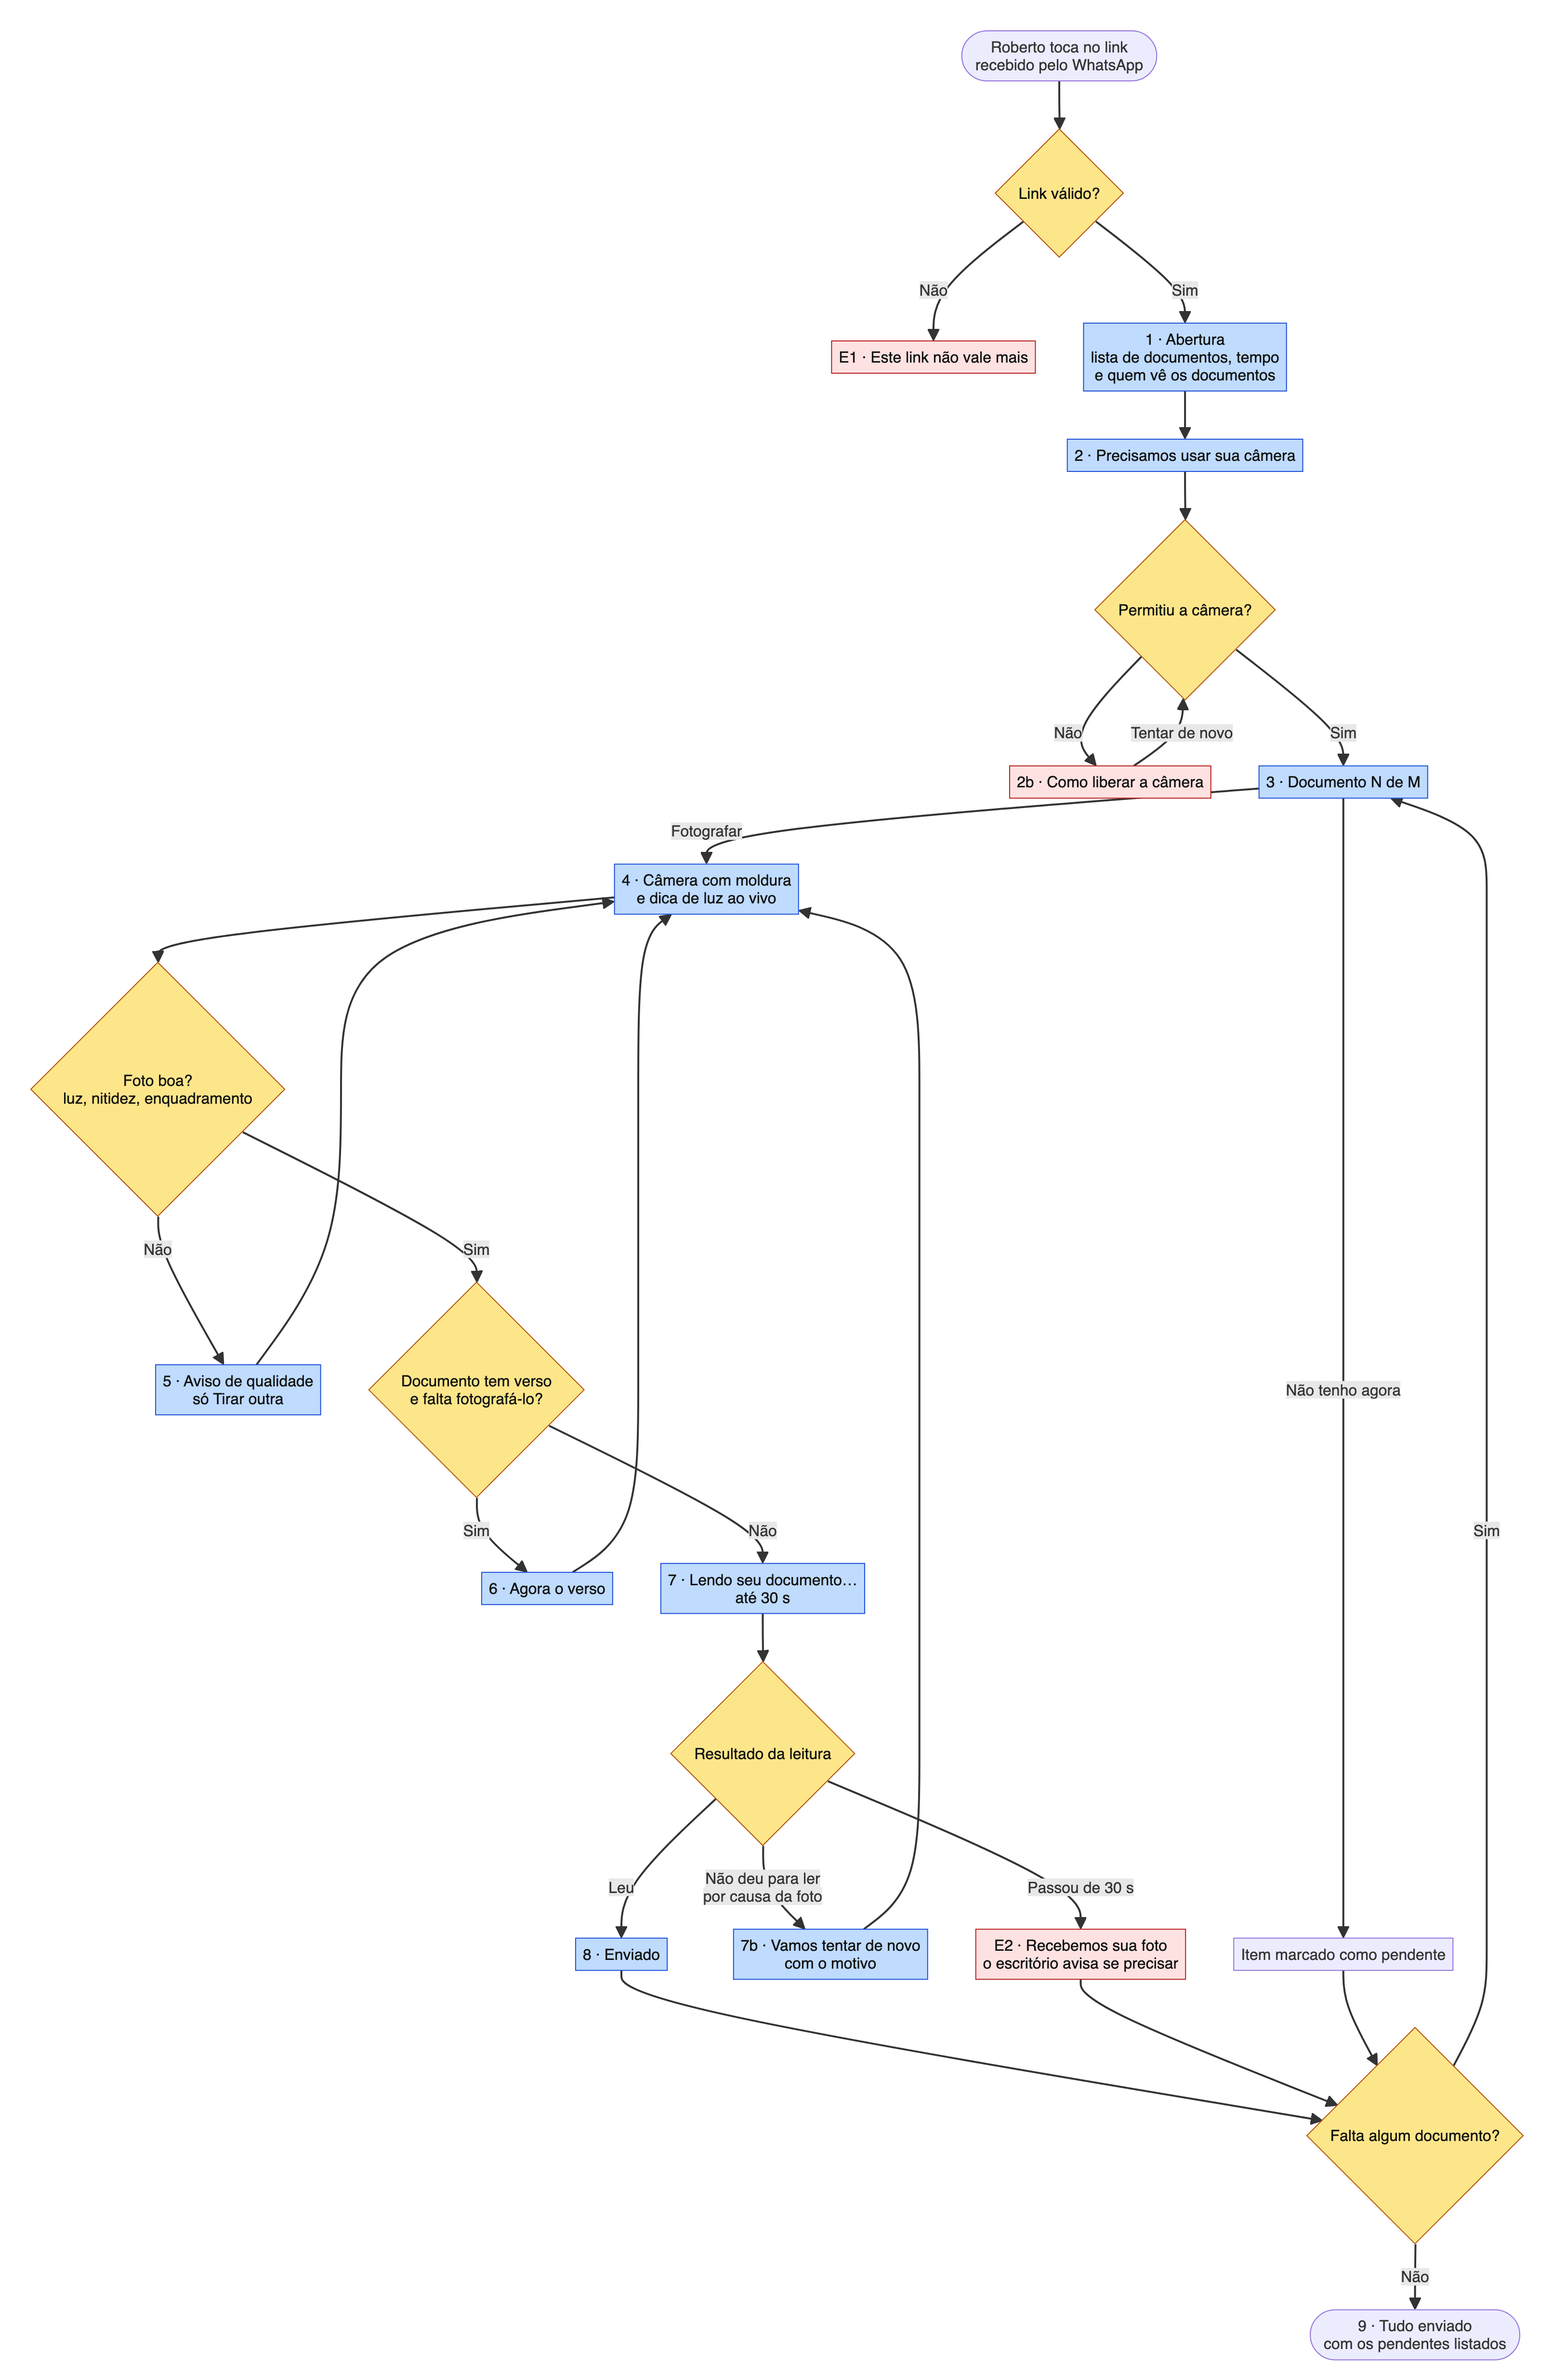
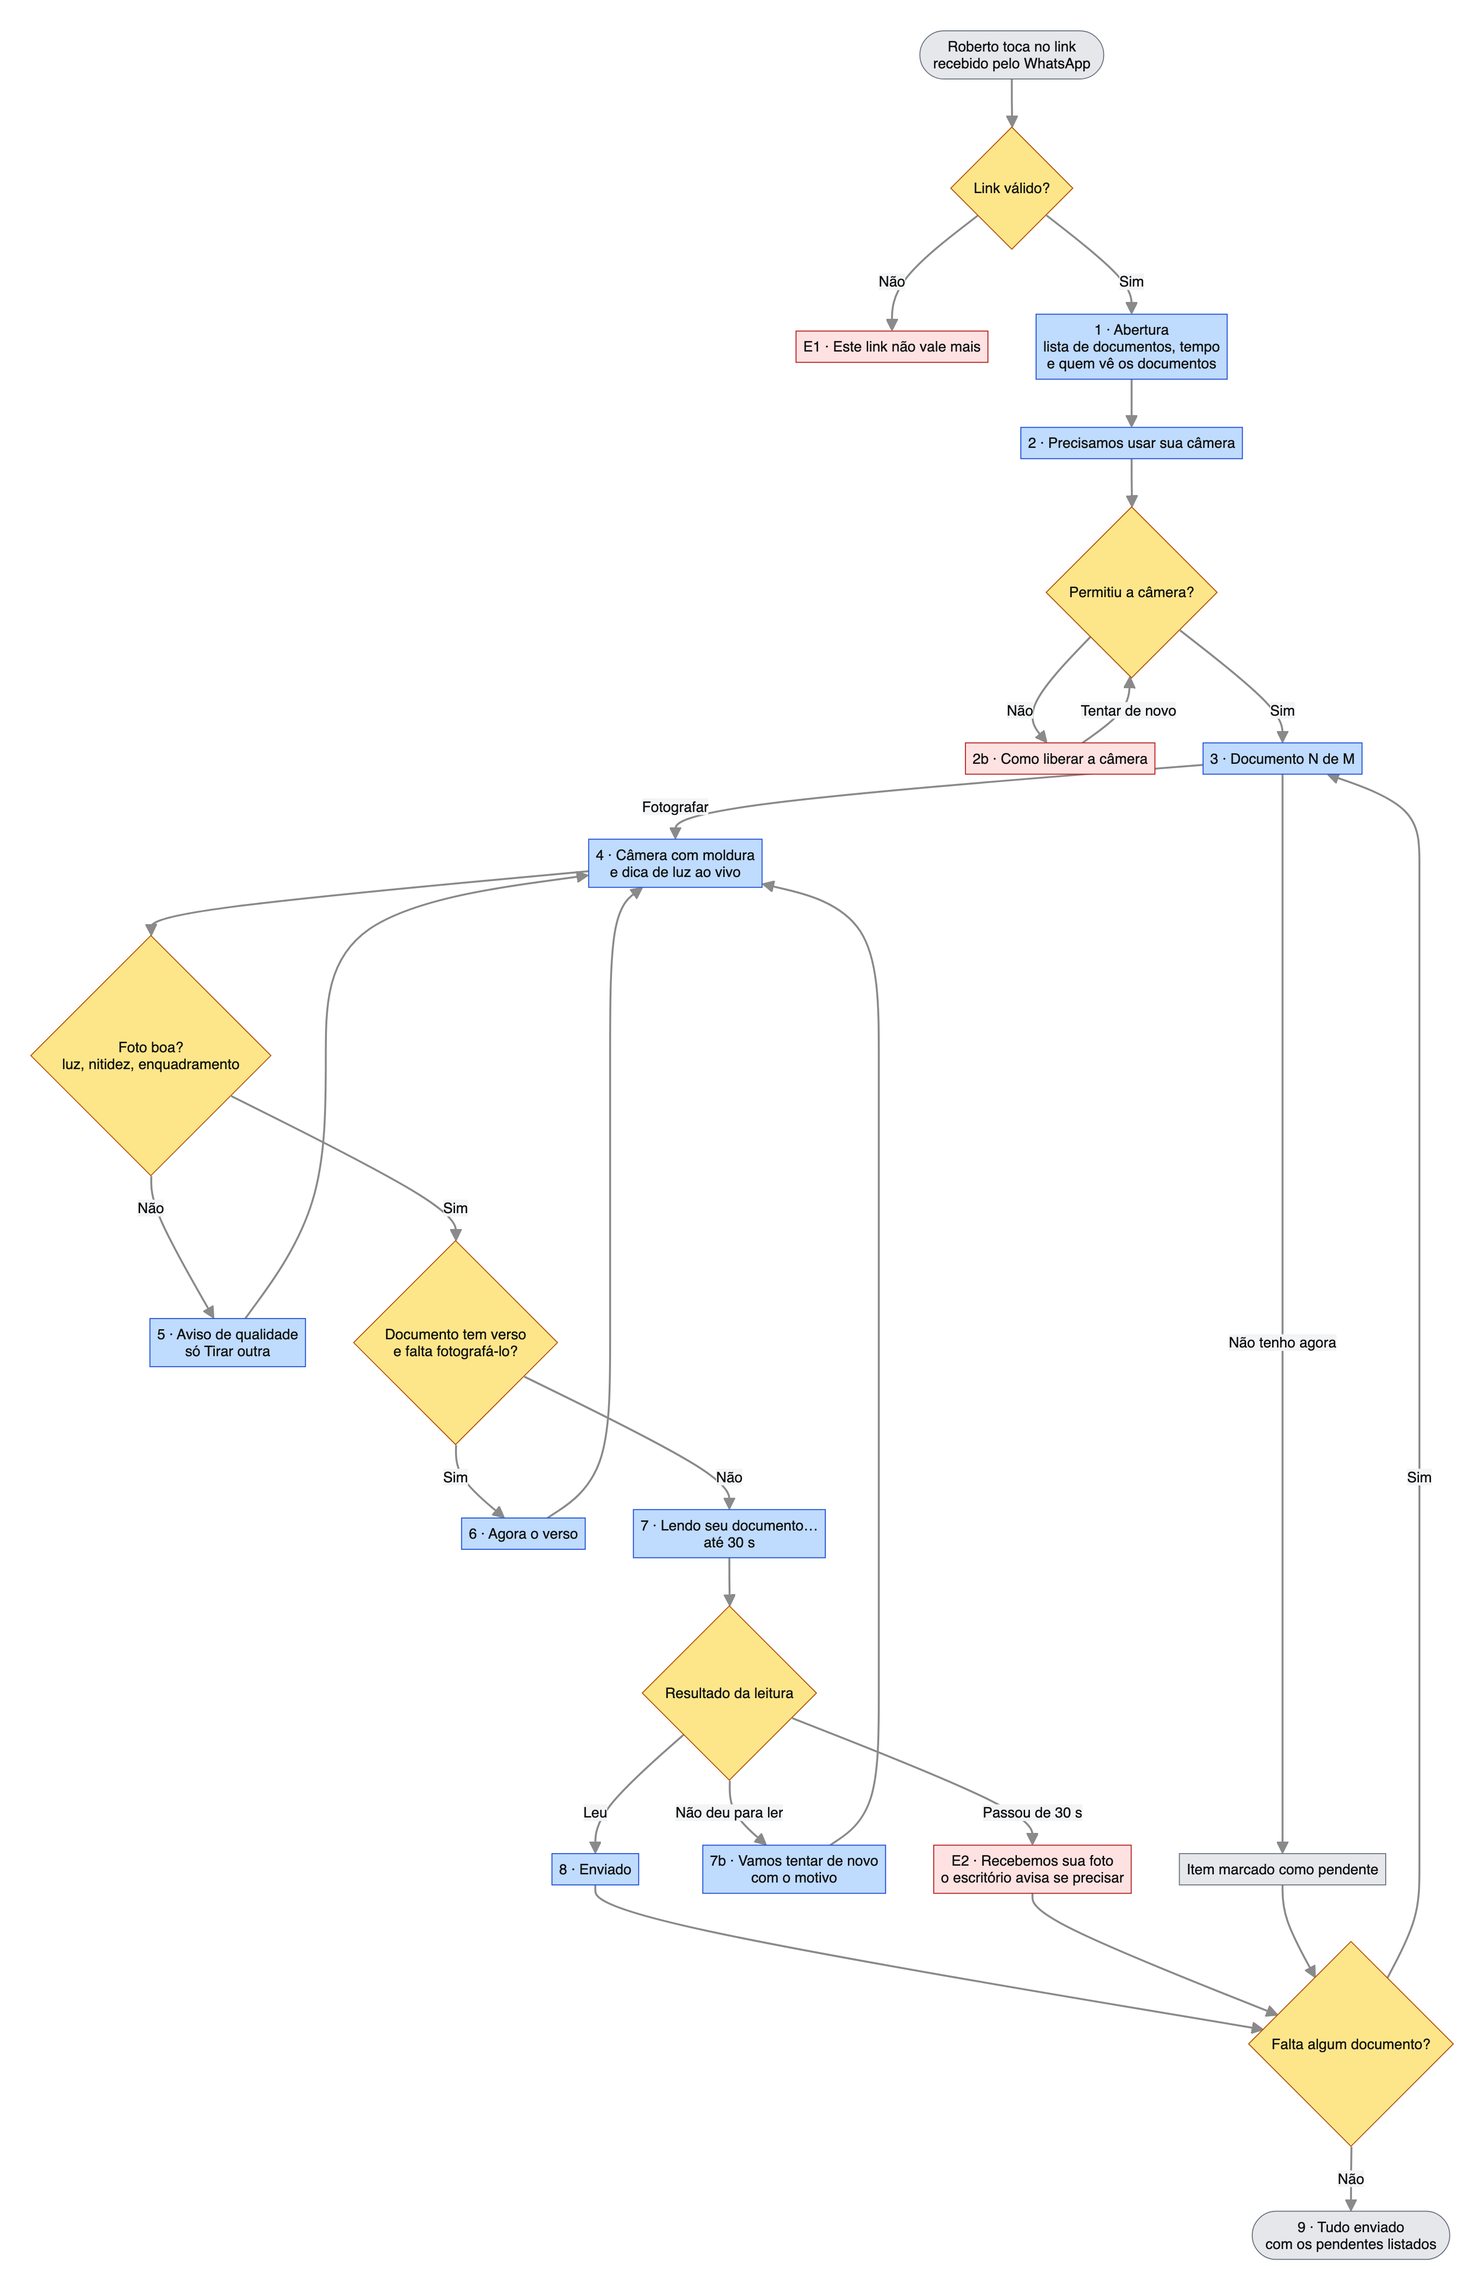
Fluxo das telas legível em fundo escuro (tema fixo e todos os nós coloridos)

diff --git a/docs/ux/captura-wireframes.md b/docs/ux/captura-wireframes.md
@@ -18,6 +18,7 @@
 ## Fluxo das telas
 
 ```mermaid
+%%{init: {"theme": "base", "themeVariables": {"lineColor": "#8a8a8a", "primaryTextColor": "#111111", "edgeLabelBackground": "#f3f4f6", "fontSize": "15px"}}}%%
 flowchart TD
     LINK([Roberto toca no link<br/>recebido pelo WhatsApp]) --> VAL{Link válido?}
     VAL -->|Não| E1["E1 · Este link não vale mais"]
@@ -39,7 +40,7 @@ flowchart TD
     VER -->|Não| T7["7 · Lendo seu documento…<br/>até 30 s"]
 
     T7 --> LEU{Resultado da leitura}
-    LEU -->|Não deu para ler<br/>por causa da foto| T7B["7b · Vamos tentar de novo<br/>com o motivo"]
+    LEU -->|Não deu para ler| T7B["7b · Vamos tentar de novo<br/>com o motivo"]
     T7B --> T4
     LEU -->|Leu| T8["8 · Enviado"]
     LEU -->|Passou de 30 s| E2["E2 · Recebemos sua foto<br/>o escritório avisa se precisar"]
@@ -56,11 +57,13 @@ flowchart TD
     class T1,T2,T3,T4,T5,T6,T7,T7B,T8 tela
     class E1,E2,T2B excecao
     class VAL,PERM,QUAL,VER,LEU,MAIS decisao
+    classDef borda fill:#e5e7eb,stroke:#6b7280,color:#111
+    class LINK,PEND,T9 borda
 ```
 
 🖼 [Ver como imagem](img/captura-wireframes-01-fluxo-das-telas.png)
 
-**Legenda:** 🟦 tela · 🟥 exceção · 🟨 decisão do sistema
+**Legenda:** 🟦 tela · 🟥 exceção · 🟨 decisão do sistema · ⬜ início, fim e pendência
 
 ---
 
